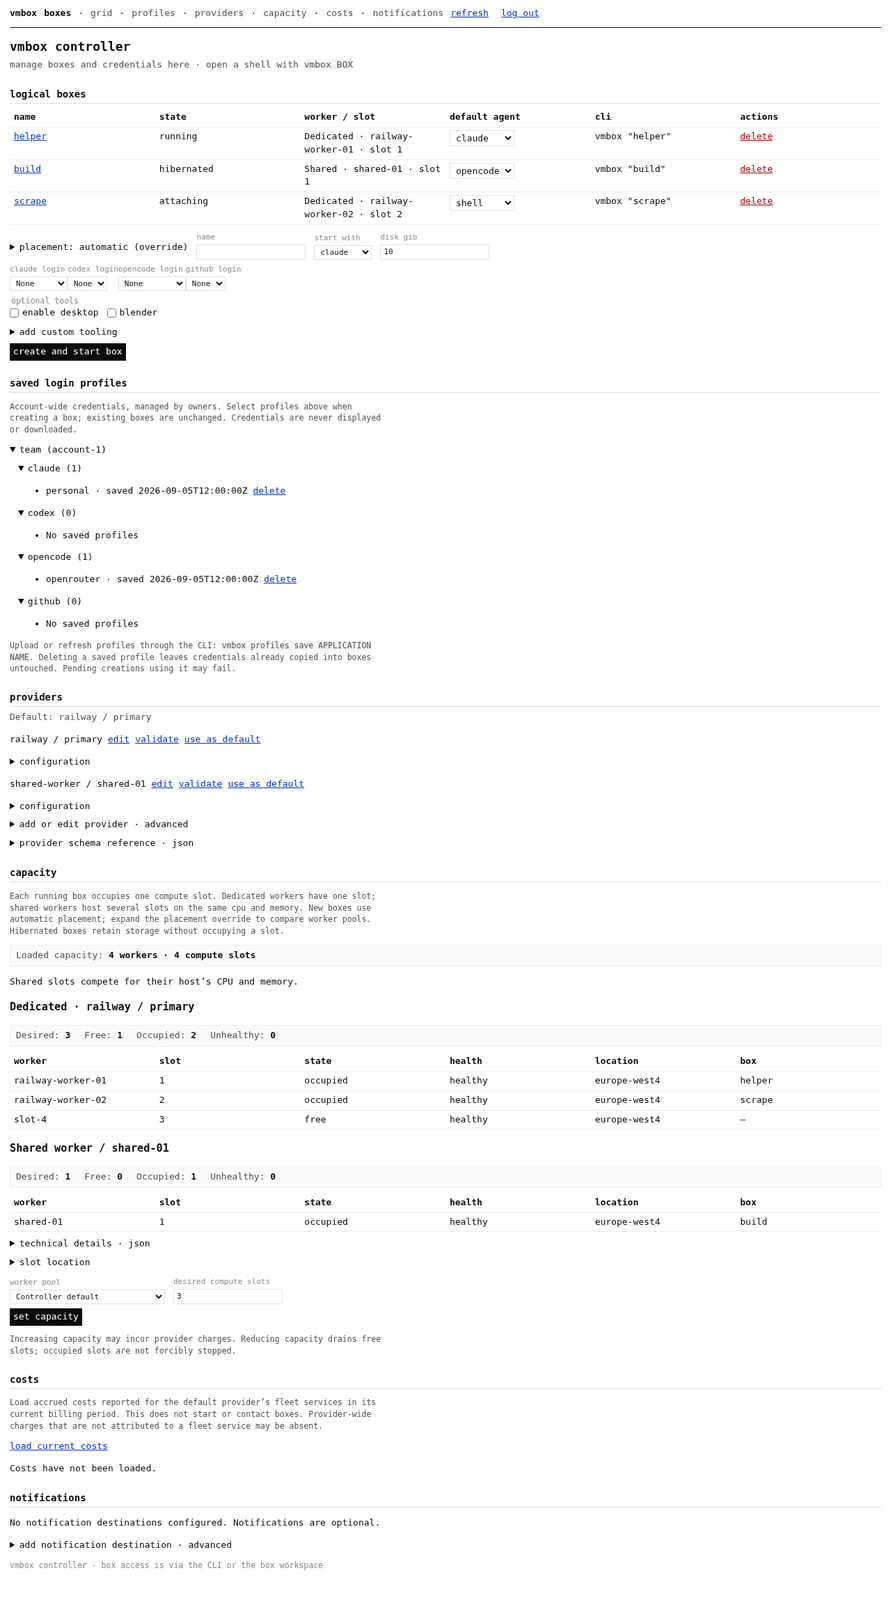
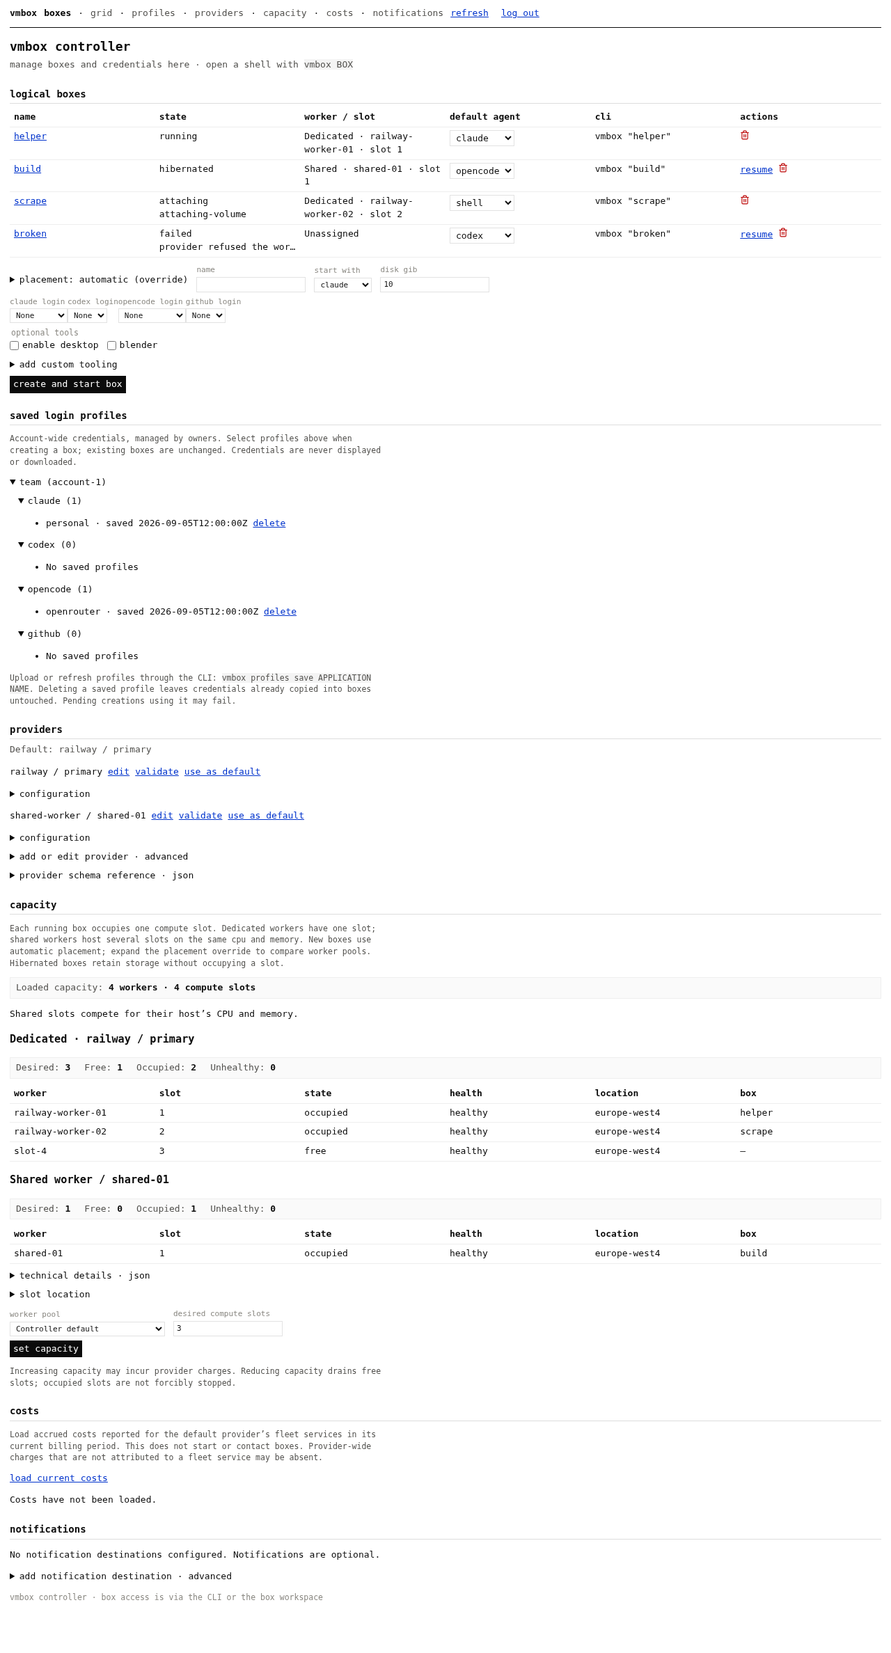
Make box controls follow box state

diff --git a/internal/controller/web/workspace.js b/internal/controller/web/workspace.js
@@ -39,7 +39,7 @@ function showWorkspaceView(view){
  $('#desktop-tab').setAttribute('aria-selected',String(desktop));
  $('#terminal-tab').setAttribute('aria-selected',String(!desktop));
 }
-function showInteractiveWorkspace(){$('#workspace').hidden=false;$('#workspace-tabs').hidden=false;$('#hibernate').hidden=false}
+function showInteractiveWorkspace(){$('#workspace').hidden=false;$('#workspace-tabs').hidden=false}
 async function ensureTerminal(version=epoch){
  if(!workspaceCurrent(version)||terminalAttached)return terminalAttached;
  if(terminalBusy)return terminalBusy;
@@ -172,15 +172,60 @@ $('#resource-form').onsubmit=async event=>{
  }catch(e){if(workspaceCurrent(snapshot.version))$('#resource-status').textContent=e.message+' Reload limits before retrying.'}
  finally{form.querySelector('button').disabled=false;$('#load-resources').disabled=false}
 };
-function state(b){$('#box-settings').hidden=workspaceRole!=='owner'||b.state!=='running';boxSummary=b;renderStats();$('#name').textContent=b.name;document.title=b.name+' · vmbox';$('#status').textContent=[b.state,b.restorationState,b.failureReason].filter(Boolean).join(' · ');$('#connect').textContent=b.state==='running'?'Reconnect viewers':'Resume box';$('#lifecycle-note').textContent=b.state==='running'?'Closing this page leaves the box running. Hibernate stops its processes and retains workspace files.':'This page does not start the box. Resume box explicitly requests compute; workspace files remain saved.'}
-function showSleepingWorkspace(){
- stopStats();$('#workspace').hidden=false;$('#workspace-tabs').hidden=true;$('#terminal').hidden=true;$('#desktop').hidden=true;$('#hibernate').hidden=true;$('#session').textContent='Saved workspace. Resume the box to connect.';
+const TRASH_ICON='<svg viewBox="0 0 24 24" width="14" height="14" fill="none" stroke="currentColor" stroke-width="2" stroke-linecap="round" stroke-linejoin="round" aria-hidden="true"><path d="M3 6h18"/><path d="M8 6V4a2 2 0 0 1 2-2h4a2 2 0 0 1 2 2v2"/><path d="M19 6v14a2 2 0 0 1-2 2H7a2 2 0 0 1-2-2V6"/><line x1="10" y1="11" x2="10" y2="17"/><line x1="14" y1="11" x2="14" y2="17"/></svg>';
+// Only offer an action the box state can actually satisfy: never connect or
+// resume a box that is still being created or is mid-transition.
+function boxPhase(state){if(state==='running')return 'running';if(state==='failed')return 'failed';if(state==='reserved'||state==='attaching')return 'creating';if(state==='deleting')return 'deleting';if(state==='hibernating'||state==='draining')return 'transitioning';return 'stopped'}
+let deletePending=false;
+function statusLine(b){const phase=boxPhase(b.state);const hint=phase==='creating'?'being created; connect becomes available when it is running':phase==='transitioning'?'transitioning; this page updates automatically':phase==='deleting'?'being deleted':'';return [b.state,b.restorationState,b.failureReason,hint].filter(Boolean).join(' · ')}
+function applyBoxState(b){
+ boxSummary=b;renderStats();
+ $('#name').textContent=b.name;document.title=b.name+' · vmbox';
+ const phase=boxPhase(b.state),owner=workspaceRole==='owner',connectable=phase==='running'||phase==='stopped'||phase==='failed';
+ $('#status').textContent=statusLine(b);
+ $('#connect').hidden=!connectable;
+ $('#connect').textContent=phase==='running'?'Reconnect viewers':'Resume box';
+ $('#hibernate').hidden=!(phase==='running'&&owner);
+ $('#box-settings').hidden=!(phase==='running'&&owner);
+ $('#delete-box').hidden=!owner||!(phase==='running'||phase==='stopped'||phase==='failed');
+ $('#delete-box').disabled=deletePending||phase==='deleting';
+ $('#lifecycle-note').textContent={
+  running:'Closing this page leaves the box running. Hibernate stops its processes and retains workspace files.',
+  stopped:'This page does not start the box. Resume box explicitly requests compute; workspace files remain saved.',
+  failed:'This box failed to start. Read the reason above, then resume to retry or delete the box and its workspace.',
+  creating:'This box is being created. This page updates automatically; connecting becomes available when it is running.',
+  transitioning:'This box is transitioning. This page updates automatically.',
+  deleting:'This box is being deleted. Its workspace volume will be removed.'
+ }[phase];
+}
+function showSleepingWorkspace(message){
+ stopStats();$('#workspace').hidden=false;$('#workspace-tabs').hidden=true;$('#terminal').hidden=true;$('#desktop').hidden=true;$('#hibernate').hidden=true;
+ $('#session').textContent=message||'Saved workspace. Resume the box to connect.';
+}
+// Watch a box that is already in motion (creating, hibernating, draining,
+// deleting) instead of offering a resume action it cannot honour.
+async function observeBox(box,version){
+ const deadline=Date.now()+180000;
+ for(;;){
+  if(version!==epoch)return;
+  const phase=boxPhase(box.state);
+  if(phase==='running'){startStats();await openPreferredView(box,version);return}
+  if(phase==='stopped'){showSleepingWorkspace();return}
+  if(phase==='failed'){showSleepingWorkspace(box.failureReason?('Box failed: '+box.failureReason):'Box failed to start. Resume to retry or delete it.');return}
+  $('#status').textContent=statusLine(box);
+  if(Date.now()>deadline)throw Error('Still '+box.state+'. This page stopped watching; reload to check again.');
+  await new Promise(r=>setTimeout(r,2000));if(version!==epoch)return;
+  try{box=await api(bp)}catch(err){if(phase==='deleting'){location.assign('/');return}throw err}
+  if(version!==epoch)return;applyBoxState(box);
+ }
 }
 async function connect(resume=false){
  if(busy)return;resetBoxSettings();busy=true;const version=++epoch;$('#connect').disabled=true;$('#error').textContent='';
  try{
-  let box=await api(bp);if(version!==epoch)return;state(box);
-  if(box.state!=='running'){
+  let box=await api(bp);if(version!==epoch)return;applyBoxState(box);
+  const phase=boxPhase(box.state);
+  if(phase==='running'){startStats();await openPreferredView(box,version);return}
+  if(phase==='stopped'||phase==='failed'){
    if(!resume){showSleepingWorkspace();return}
    if(!allocation)allocation=await api(bp+'/allocate','POST',{leaseOwner:'web'},{'Idempotency-Key':allocationKey});
    const deadline=Date.now()+180000;
@@ -192,15 +237,32 @@ async function connect(resume=false){
     await new Promise(r=>setTimeout(r,1500));if(version!==epoch)return;
     allocation=await api('/v1/allocations/'+encodeURIComponent(allocation.requestId));
    }
-   box=await api(bp);if(version!==epoch)return;state(box);
+   box=await api(bp);if(version!==epoch)return;applyBoxState(box);
+   startStats();await openPreferredView(box,version);return;
   }
-  startStats();await openPreferredView(box,version);
+  await observeBox(box,version);
  }catch(e){if(version===epoch)$('#error').textContent=e.message}finally{busy=false;$('#connect').disabled=false}
 }
 $('#connect').onclick=()=>void connect(true);
 $('#login').onsubmit=async e=>{e.preventDefault();try{await api('/v1/browser-session','POST',{}, {Authorization:'Bearer '+e.target.elements.token.value});e.target.reset();workspaceRole=(await api('/v1/whoami')).role;$('#login').hidden=true;await connect(false)}catch(e){$('#error').textContent=e.message}};
 $('#logout').onclick=async()=>{epoch++;stopStats();closeTerminal();closeDesktop();try{await api('/v1/browser-session','DELETE');$('#workspace').hidden=true;$('#login').hidden=false;$('#status').textContent='Logged out. The box was not stopped.'}catch(e){$('#error').textContent=e.message}};
-$('#hibernate').onclick=async()=>{if(busy||!confirm('Hibernate this box? Running processes will stop; workspace files are retained.'))return;epoch++;stopStats();closeTerminal();closeDesktop();try{state(await api(bp+'/hibernate','POST',{}));allocation=null;allocationKey=crypto.randomUUID();selectedWorkspaceView='';showSleepingWorkspace();$('#terminal-screen').replaceChildren()}catch(e){$('#error').textContent=e.message}};
+$('#hibernate').onclick=async()=>{
+ if(busy||!confirm('Hibernate this box? Running processes will stop; workspace files are retained.'))return;
+ const version=++epoch;stopStats();closeTerminal();closeDesktop();allocation=null;allocationKey=crypto.randomUUID();selectedWorkspaceView='';$('#terminal-screen').replaceChildren();busy=true;
+ try{const box=await api(bp+'/hibernate','POST',{});if(version!==epoch)return;applyBoxState(box);await observeBox(box,version)}
+ catch(e){if(version===epoch)$('#error').textContent=e.message}
+ finally{busy=false}
+};
+// Owner-only, and only offered for boxes that can actually be deleted.
+$('#delete-box').innerHTML=TRASH_ICON;
+$('#delete-box').onclick=async()=>{
+ if(deletePending||busy||!boxSummary)return;
+ const box=boxSummary;
+ if(!confirm('Delete box "'+box.name+'" and its workspace volume? Running processes will stop and all files in the volume will be permanently deleted. This cannot be undone.'))return;
+ const version=epoch;deletePending=true;$('#delete-box').disabled=true;$('#error').textContent='';
+ try{await api(bp+'/volume','DELETE',{confirmation:box.name});if(version!==epoch)return;deletePending=false;await connect(false)}
+ catch(e){if(version===epoch){deletePending=false;$('#delete-box').disabled=false;$('#error').textContent=e.message}}
+};
 window.addEventListener('pagehide',()=>{epoch++;stopStats();closeTerminal();closeDesktop()});
 (async()=>{try{workspaceRole=(await api('/v1/whoami')).role;$('#login').hidden=true;await connect(false)}catch(e){$('#error').textContent=e.message}})();
 

diff --git a/internal/controller/web/grid.js b/internal/controller/web/grid.js
@@ -2,10 +2,30 @@
 (()=>{
  const $=s=>document.querySelector(s),tiles=[];let boxes=[],epoch=0,timer,automaticLayout=true;const unavailable=new Map();
  const node=(tag,text)=>{const e=document.createElement(tag);if(text)e.textContent=text;return e};
+ // A tile only offers an action its box state can satisfy.
+ const boxPhase=state=>state==='running'?'running':state==='failed'?'failed':(state==='reserved'||state==='attaching')?'creating':state==='deleting'?'deleting':(state==='hibernating'||state==='draining')?'transitioning':'stopped';
+ function syncActions(t){const b=boxes.find(x=>x.id===t.box.value),phase=b?boxPhase(b.state):'';const available=phase==='running'||phase==='stopped'||phase==='failed';t.reconnect.hidden=!available;t.reconnect.disabled=!available;t.reconnect.textContent=phase==='running'?'Reconnect':'Resume'}
+ async function resumeTile(t){
+  const b=boxes.find(x=>x.id===t.box.value);if(!b)return;
+  const phase=boxPhase(b.state);if(phase!=='stopped'&&phase!=='failed')return;
+  t.status.textContent=b.name+' · requesting compute…';
+  try{
+   let a=await api('/v1/logical-boxes/'+encodeURIComponent(b.id)+'/allocate','POST',{'Content-Type':'application/json','Idempotency-Key':crypto.randomUUID()},{leaseOwner:'web'});
+   const deadline=Date.now()+180000;
+   while(a.state!=='ready'){
+    if(['failed','cancelled'].includes(a.state))throw Error(a.failureReason||a.state);
+    if(Date.now()>deadline)throw Error('Allocation still running; refresh to check again.');
+    t.status.textContent=b.name+' · '+[a.phase,a.state,a.queuePosition?'queue '+a.queuePosition:''].filter(Boolean).join(' · ');
+    await new Promise(r=>setTimeout(r,2000));
+    a=await api('/v1/allocations/'+encodeURIComponent(a.requestId));
+   }
+   await refresh();await t.connect();
+  }catch(e){t.status.textContent=b.name+' · '+e.message}
+ }
  async function api(path,method='GET',headers={},body){const r=await fetch(path,{method,credentials:'same-origin',headers,body:body===undefined?undefined:JSON.stringify(body),signal:AbortSignal.timeout(30000)});if(r.status===401){stop();$('#grid-app').hidden=true;$('#login').hidden=false;throw Error('Please log in again.')}if(!r.ok)throw Error('Controller request failed ('+r.status+'). Use Refresh or reconnect.');return r.status===204?null:r.json();}
  function stop(){epoch++;clearTimeout(timer);for(const t of tiles){t.disconnect();t.box.value='';}}
  function fill(){if($('#grid-app').hidden)return;const used=new Set(tiles.map(t=>t.box.value));for(const t of tiles){if(t.box.value)continue;const b=boxes.find(b=>b.state==='running'&&!used.has(b.id)&&(unavailable.get(b.id)||0)<=Date.now());if(b){t.box.value=b.id;used.add(b.id);void t.connect()}}tiles.forEach(picker)}
- function picker(t){const selected=t.box.value;t.box.replaceChildren(new Option('Select a box…',''));for(const b of boxes){const o=new Option(b.name+' · '+b.state,b.id);o.disabled=tiles.some(x=>x!==t&&x.box.value===b.id);t.box.add(o)}t.box.value=selected;}
+ function picker(t){const selected=t.box.value;t.box.replaceChildren(new Option('Select a box…',''));for(const b of boxes){const o=new Option(b.name+' · '+b.state,b.id);o.disabled=tiles.some(x=>x!==t&&x.box.value===b.id);t.box.add(o)}t.box.value=selected;syncActions(t);}
  function makeTile(){
   const element=node('section');element.className='tile';const header=node('header'),label=node('label','Box '),box=node('select');label.append(box);header.append(label);
   const sessionLabel=node('label','Session '),session=node('select');sessionLabel.append(session);header.append(sessionLabel);
@@ -16,10 +36,10 @@
   let version=0,dispose=()=>{};
   function dropped(){unavailable.set(box.value,Date.now()+30000);t.disconnect();box.value='';session.replaceChildren();status.textContent='Waiting for an available box…';fill()}
   async function desktop(ticket,b){await api('/v1/logical-boxes/'+b.id+'/desktop','POST');if(ticket!==version)return;dispose=openWorkspaceDesktop(b.id,message=>{if(ticket===version)status.textContent=b.name+' · '+message},{root:screen,controls:keys,onDisconnect:()=>{if(ticket===version)dropped()}})}
-  const t={element,box,session,status,disconnect(){version++;dispose();dispose=()=>{};screen.replaceChildren();keys.replaceChildren();},async connect(preferred='auto'){
+  const t={element,box,session,status,reconnect,disconnect(){version++;dispose();dispose=()=>{};screen.replaceChildren();keys.replaceChildren();},async connect(preferred='auto'){
    t.disconnect();const ticket=version,selected=box.value;session.replaceChildren();
    if(!selected){status.textContent='Select a running box.';return}
-   const b=boxes.find(b=>b.id===selected);if(!b||b.state!=='running'){status.textContent=(b?.state||'Unavailable')+' · resume using vmbox BOX or the box workspace, then reconnect.';return}
+   const b=boxes.find(b=>b.id===selected);syncActions(t);if(!b||b.state!=='running'){status.textContent=(b?.state||'Unavailable')+(b?.failureReason?' · '+b.failureReason:'')+' · '+(boxPhase(b?.state)==='creating'?'being created; this tile updates automatically':'resume to attach it here');return}
    status.textContent=b.name+' · '+b.state+' · checking sessions…';
    try{if(preferred!=='terminal'){let enabled=false;try{enabled=(await api('/v1/logical-boxes/'+selected+'/desktop')).enabled}catch{enabled=true}if(ticket!==version)return;if(enabled||preferred==='desktop'){view.value='desktop';sessionLabel.hidden=true;try{await desktop(ticket,b);return}catch(e){if(ticket!==version)return;if(preferred==='desktop')throw e}}}view.value='terminal';sessionLabel.hidden=false;const [inv,primary]=await Promise.all([api('/v1/logical-boxes/'+selected+'/sessions'),api('/v1/logical-boxes/'+selected+'/sessions/primary')]);if(ticket!==version)return;
     const sessions=(inv.sessions||[]).filter(s=>!s.name.startsWith('task-'));if(inv.partial||inv.state!=='live')throw Error('Session inventory is incomplete; reconnect.');
@@ -28,7 +48,7 @@
     t.attach();
    }catch(e){if(ticket===version){status.textContent=e.message;dropped()}}
   },attach(){t.disconnect();const ticket=version,b=boxes.find(b=>b.id===box.value);if(!b||!session.value)return;status.textContent=b.name+' · connecting…';dispose=openWorkspaceTerminal(b.id,session.value,message=>{if(ticket===version)status.textContent=b.name+' · '+b.state+' · '+message},{root:screen,keys,autoFocus:false,onDisconnect:()=>{if(ticket===version)dropped()}});}};
-  view.onchange=()=>t.connect(view.value);box.onchange=()=>{t.connect();tiles.forEach(picker)};session.onchange=()=>t.attach();reconnect.onclick=()=>t.connect();close.onclick=dropped;tiles.push(t);picker(t);
+  view.onchange=()=>t.connect(view.value);box.onchange=()=>{t.connect();tiles.forEach(picker)};session.onchange=()=>t.attach();reconnect.onclick=()=>{const b=boxes.find(x=>x.id===box.value),phase=b?boxPhase(b.state):'';if(phase==='running')t.connect();else if(phase==='stopped'||phase==='failed')void resumeTile(t)};close.onclick=dropped;tiles.push(t);picker(t);
  }
  function layout(){const form=$('#layout'),columns=Number(form.elements.columns.value),rows=automaticLayout?Math.max(1,Math.ceil(boxes.filter(b=>b.state==='running').length/columns)):Number(form.elements.rows.value);while(tiles.length>columns*rows){const t=tiles.pop();t.disconnect();t.element.remove()}while(tiles.length<columns*rows)makeTile();$('#tiles').style.setProperty('--columns',columns);$('#tiles').style.setProperty('--rows',rows);tiles.forEach(picker);fill();}
  async function refresh(){clearTimeout(timer);const ticket=++epoch;try{const current=await api('/v1/grid-boxes');if(ticket!==epoch)return;boxes=current;$('#error').textContent='';for(const t of tiles){const selected=t.box.value,b=boxes.find(b=>b.id===selected);if(selected&&(!b||b.state!=='running')){t.disconnect();t.box.value='';t.session.replaceChildren();t.status.textContent=b?b.name+' · '+b.state+' · not connected.':'Box removed or no longer interactive.';}picker(t)}if(automaticLayout)layout();else fill()}catch(e){if(ticket===epoch)$('#error').textContent=e.message}finally{if(ticket===epoch&&!$('#grid-app').hidden)timer=setTimeout(refresh,15000)}}

diff --git a/internal/controller/web/app.js b/internal/controller/web/app.js
@@ -51,6 +51,11 @@ function action(fn){return async e=>{e?.preventDefault();$('#error').textContent
 function node(tag,text){const n=document.createElement(tag);n.textContent=text;return n}
 function tableText(text){const t=text??'—',n=node('span',t);n.className=t==='—'?'table-text muted':'table-text';n.title=String(t);return n}
 function button(text,fn){const b=node('button',text);b.type='button';b.className='linkbtn';b.addEventListener('click',action(fn));return b}
+const TRASH_ICON='<svg viewBox="0 0 24 24" width="14" height="14" fill="none" stroke="currentColor" stroke-width="2" stroke-linecap="round" stroke-linejoin="round" aria-hidden="true"><path d="M3 6h18"/><path d="M8 6V4a2 2 0 0 1 2-2h4a2 2 0 0 1 2 2v2"/><path d="M19 6v14a2 2 0 0 1-2 2H7a2 2 0 0 1-2-2V6"/><line x1="10" y1="11" x2="10" y2="17"/><line x1="14" y1="11" x2="14" y2="17"/></svg>';
+function trashButton(label,fn){const b=node('button');b.type='button';b.className='linkbtn danger';b.setAttribute('aria-label',label);b.title=label;b.innerHTML=TRASH_ICON;b.addEventListener('click',action(fn));return b}
+// Box states that are still moving; only show an action the state can satisfy.
+const TRANSIENT_STATES=new Set(['reserved','attaching','hibernating','draining','deleting']);
+function boxPhase(state){if(state==='running')return 'running';if(state==='failed')return 'failed';if(state==='reserved'||state==='attaching')return 'creating';if(state==='deleting')return 'deleting';if(state==='hibernating'||state==='draining')return 'transitioning';return 'stopped'}
 // Restore same-tab navigation without storing credentials in JavaScript storage.
 async function restoreLogin(){try{await api('/v1/browser-session');await refresh();$('#login').hidden=true;$('#app').hidden=false}catch{}}
 window.addEventListener('DOMContentLoaded',restoreLogin);
@@ -137,17 +142,28 @@ function renderBoxes(boxes){
   for(const agent of ['claude','codex','opencode','shell']){const o=node('option',agent);o.value=agent;select.append(o)}select.value=b.defaultAgent;select.disabled=b.state==='deleting'||deletingBoxes.has(b.id);
   select.addEventListener('change',action(()=>api(bp(b.id),'PATCH',{defaultAgent:select.value})));cell.append(select);
   const name=node('td',''),link=node(b.state==='deleting'?'span':'a',b.name);link.className='table-text';link.title=b.name;if(b.state!=='deleting')link.href='/boxes/'+encodeURIComponent(b.id);name.append(link);
-  status.replaceChildren(tableText(startingBoxes.has(b.id)&&b.state==='hibernated'?'starting':b.state));if(b.restorationState)status.append(tableText(b.restorationState));if(b.failureReason){const details=node('details'),summary=node('summary','Error details');details.append(summary,node('pre',b.failureReason));status.append(details)}
-  const remove=button(b.state==='deleting'?'Deleting…':'Delete',async()=>{
+  status.replaceChildren(tableText(startingBoxes.has(b.id)&&b.state!=='running'?'starting':b.state));
+  if(b.restorationState)status.append(tableText(b.restorationState));
+  if(b.failureReason)status.append(tableText(b.failureReason));
+  if(boxPhase(b.state)==='stopped'||boxPhase(b.state)==='failed'){
+   const resume=button('Resume',async()=>{
+    if(startingBoxes.has(b.id))return;
+    startingBoxes.add(b.id);
+    try{await api(bp(b.id)+'/allocate','POST',{leaseOwner:'web'},{'Idempotency-Key':crypto.randomUUID()})}
+    catch(err){startingBoxes.delete(b.id);throw err}
+    const version=epoch;const boxes=await api('/v1/logical-boxes');if(version===epoch)renderBoxes(boxes)
+   });resume.setAttribute('aria-label','Resume box '+b.name);actions.append(resume);
+  }
+  const remove=trashButton('Delete box '+b.name,async()=>{
    if(deletingBoxes.has(b.id)||!confirm('Delete box "'+b.name+'" and its workspace volume? Running processes will stop and all files in the volume will be permanently deleted. This cannot be undone. Shared fleet services and other boxes are kept.'))return;
-   const version=epoch;deletingBoxes.add(b.id);remove.disabled=true;remove.textContent='Requesting deletion…';
+   const version=epoch;deletingBoxes.add(b.id);remove.disabled=true;remove.title='requesting deletion…';
    try{await api(bp(b.id)+'/volume','DELETE',{confirmation:b.name});const boxes=await api('/v1/logical-boxes');if(version===epoch)renderBoxes(boxes)}
-   catch(err){if(version===epoch){remove.disabled=false;remove.textContent='Delete';throw err}}
+   catch(err){if(version===epoch){remove.disabled=false;remove.title=remove.getAttribute('aria-label');throw err}}
    finally{deletingBoxes.delete(b.id)}
-  });remove.setAttribute('aria-label','Delete box '+b.name);remove.classList.add('danger');remove.disabled=b.state==='deleting'||deletingBoxes.has(b.id);actions.append(remove);
+  });remove.disabled=TRANSIENT_STATES.has(b.state)||deletingBoxes.has(b.id);actions.append(remove);
   const placement=node('td',boxPlacement(b));placement.className='box-placement';const cli=node('td');cli.append(tableText('vmbox '+JSON.stringify(b.name)));row.append(name,status,placement,cell,cli,actions);table.append(row);
  }wrap.append(table);$('#box-list').replaceChildren(wrap);
- if(startingBoxes.size||boxes.some(b=>['attaching','reserved','hibernating','deleting'].includes(b.state))){const version=epoch;boxRefreshTimer=setTimeout(async()=>{try{const boxes=await api('/v1/logical-boxes');if(version===epoch)renderBoxes(boxes)}catch(err){if(version===epoch)$('#error').textContent='Could not check box progress. Use Refresh to retry. '+err.message}},5000)}
+ if(startingBoxes.size||boxes.some(b=>TRANSIENT_STATES.has(b.state))){const version=epoch;boxRefreshTimer=setTimeout(async()=>{try{const boxes=await api('/v1/logical-boxes');if(version===epoch)renderBoxes(boxes)}catch(err){if(version===epoch)$('#error').textContent='Could not check box progress. Use Refresh to retry. '+err.message}},5000)}
 }
 function renderProfiles(identity,profiles){
  const tree=document.createElement('details');tree.open=true;tree.append(node('summary',identity.accountName+' ('+identity.accountId+')'));

diff --git a/internal/controller/web/workspace.html b/internal/controller/web/workspace.html
@@ -6,7 +6,7 @@
 <form id="login" hidden><label>Controller token <input name="token" type="password" autocomplete="current-password" required></label><button>Log in</button></form>
 <p id="status" role="status" aria-live="polite">Checking authentication…</p><p id="error" role="alert"></p>
 <main id="workspace" hidden>
-<p><button id="connect">Resume / reconnect</button> <button id="hibernate">Hibernate</button></p>
+<p class="actions"><button id="connect">Resume / reconnect</button> <button id="hibernate">Hibernate</button><button id="delete-box" type="button" class="linkbtn danger" aria-label="delete box" title="delete box" hidden></button></p>
 <p id="lifecycle-note">Closing this page leaves the box running. Hibernate stops its processes and retains workspace files.</p>
 <details id="idle-settings"><summary>Automatic hibernation</summary><button id="load-idle-policy" type="button">Load policy</button><form id="idle-policy-form" hidden><label>Idle hours (0 disables) <input name="hours" type="number" min="0" max="168" step="0.25" value="4" required></label><button>Save</button></form><p id="idle-policy-status">New boxes default to four hours. Managed tasks and pending private requests prevent automatic hibernation. Human takeover pauses it; screenshots do not count as activity.</p></details>
 <section id="agent-chat"><h2>Agent chat</h2><ol id="agent-messages" aria-live="polite"></ol>
